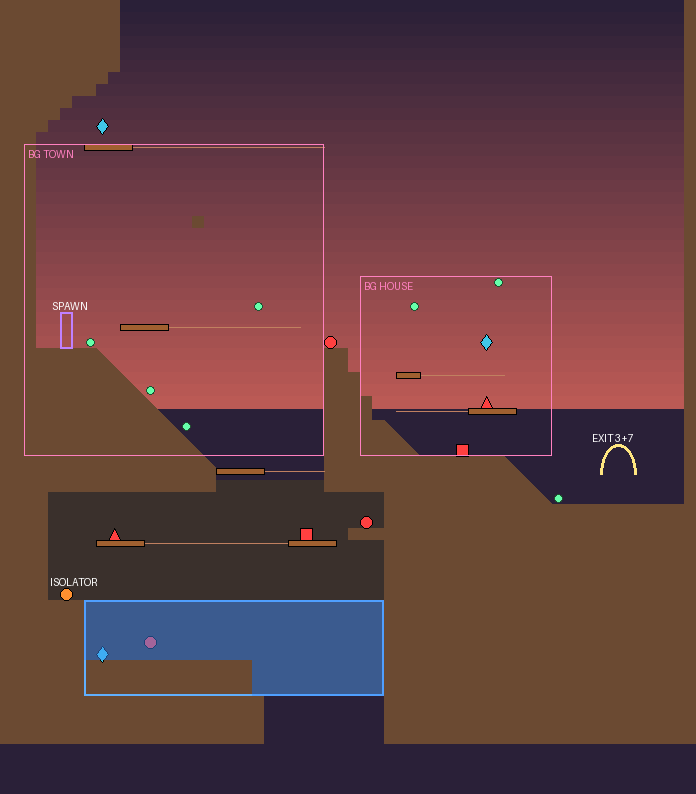
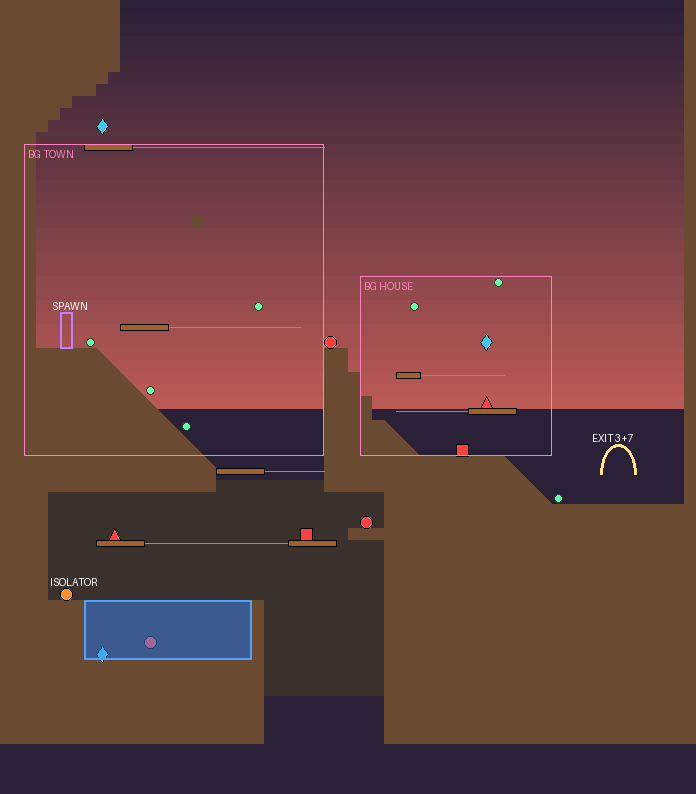
3 lives + 3 continues with continue/game-over screens; 1.2 pit is a dry hole (shutdown, reboot at entrance); water spills off open edges; full-power XLR/MAG water effects far stronger
Claude-Session: https://claude.ai/code/session_01UAL11RvN6t46xC3Baf4v3M

Changed region(s): [[0.3319, 0.7557, 0.5733, 0.8766], [0.1207, 0.8161, 0.1509, 0.8766]]

diff --git a/js/beta_water.js b/js/beta_water.js
@@ -55,6 +55,9 @@
       let L=0,R=0;
       while(L<8&&shoreFloor(w.c0-L-1,w)!=null) L++;
       while(R<8&&shoreFloor(w.c1+R+1,w)!=null) R++;
+      // past the last shore column: an open drop (water pours off it) or a wall?
+      const dropAt=c=>!gridSolid(c,w.r0-1)&&!gridSolid(c,w.r0-2)&&shoreFloor(c,w)==null;
+      w.spillL=dropAt(w.c0-L-1); w.spillR=dropAt(w.c1+R+1);
       w.px0=w.x0; w.px1=w.x1; w.x0-=L*T; w.x1+=R*T; w.n=Math.ceil((w.x1-w.x0)/w.step);
       for(let i=0;i<w.n;i++){
         const x=Math.min(w.x1-1,w.x0+i*w.step+w.step/2), c=Math.floor(x/T);
@@ -261,7 +264,8 @@
     if(!p) return;
     const xlr=!!(p.xlrOn&&ITEM===2&&typeof connectorTipWorld==='function');
     const mag=!!(p.magOn&&ITEM===3&&B.magTip);
-    const ch=Math.min(1,(B.chX||0)/45);
+    // strength = the power he has (full bar = full effect) or the charge, whichever is more
+    const ch=Math.max(Math.min(1,(B.chX||0)/45),Math.min(1,(p.itemStamina||0)/100));
     // a charged XLR push released under / onto the water: one big surge
     if(B._xlrFr!==fr){                                         // once a frame, for every pool
       B._xlrRel=(B._xlrWas&&!xlr&&B._xlrCh>0.25&&B._xlrTipW)?{tip:B._xlrTip,w:B._xlrTipW,ch:B._xlrCh}:null;
@@ -271,21 +275,27 @@
     if(xlr){
       const t=connectorTipWorld(2), a=Math.atan2(p.aimDY,p.aimDX), ux=Math.cos(a), uy=Math.sin(a);
       if(!B._xlrTipW) B._xlrTip={x:t.x,y:t.y,ux,uy};
-      const pw=0.45+0.55*ch;
+      const pw=0.45+0.9*ch;
       if(waterAt(t.x,t.y)===w){
         B._xlrTipW=w;
         const i0=colOf(w,t.x), pulse=0.75+0.25*Math.sin(fr*0.35);   // a throb, so ripples run off it
         // horizontal: move water downstream along the jet
-        for(let k=0;k<12;k++){ const x=t.x+ux*k*16, i=colOf(w,x); if(x<w.x0||x>=w.x1) break; colFlux(w,ux>0?i:i-1,ux*2.8*pw*pulse*(1-k/14)); }
+        for(let k=0;k<14;k++){ const x=t.x+ux*k*16, i=colOf(w,x); if(x<w.x0||x>=w.x1) break; colFlux(w,ux>0?i:i-1,ux*3.4*pw*pulse*(1-k/16)); }
         // the blast blows a pocket of air out of the nozzle: it grows with the
         // charge to 3x3 blocks at full power, and the water it pushes out of
         // that space has to go somewhere — the whole pool rises and sloshes
         let b=B.xBub;
         if(!b||b.free||b.w!==w){ b=B.xBub={w,x:t.x,y:t.y,r:6,free:false,vx:0,vy:0}; }
-        const goal=8+40*ch; b.r+=(goal-b.r)*0.12; b.held=fr;
+        const goal=10+38*ch; b.r+=(goal-b.r)*0.22; b.held=fr;   // full power: a 3x3-block pocket almost at once
         b.x=t.x+ux*b.r*0.9; b.y=t.y+uy*b.r*0.9; b.ux=ux; b.uy=uy;
-        if(fr%14===0) ring(w,b.x,b.y,'air',0.5+ch);
-        if(fr%3===0) for(let k=0;k<2;k++) B.bubbles.push({x:t.x+ux*(18+Math.random()*30),y:t.y+uy*(18+Math.random()*30),r:2+Math.random()*3,vy:-0.3+uy*2,vx:ux*3,w});
+        if(fr%10===0){ ring(w,b.x,b.y,'air',0.7+1.6*ch); if(ch>0.8) B.shake=Math.max(B.shake||0,2.5); }
+        // a roaring churn: big bubbles boiling off the pocket, streaming up and along the jet
+        const nb=1+Math.round(ch*4);
+        for(let k=0;k<nb;k++){ const a2=Math.random()*Math.PI*2, rr=b.r*(0.9+Math.random()*0.3);
+          B.bubbles.push({x:b.x+Math.cos(a2)*rr,y:b.y+Math.sin(a2)*rr,r:2+Math.random()*(3+6*ch),vy:-0.6-Math.random()*1.5+uy*2,vx:ux*(2+3*ch)+Math.cos(a2)*1.2,w}); }
+        // and the surface above boils white
+        const si=colOf(w,b.x), sy0=w.s[si];
+        if(ch>0.5&&b.y-b.r-sy0<90&&fr%2===0) for(let k=0;k<2;k++) PFXS.push({x:b.x+(Math.random()-0.5)*b.r*2,y:sy0-2,vx:(Math.random()-0.5)*2.5,vy:-1.5-Math.random()*3*ch,life:16+Math.random()*10|0,maxLife:26,r:1.5+Math.random()*2.5,col:k?'#ffffff':'#bfe6ff'});
       }else if(uy>0.25){
         // above the water, blowing at it: where does the blast meet the surface?
         let hx=null, hy=null;
@@ -303,13 +313,15 @@
       const t=B.magTip();
       if(waterAt(t.x,t.y)===w){
         const pw=Math.max(0.2,Math.min(1,(p.itemStamina||0)/100)), i0=colOf(w,t.x);
-        const depth=Math.max(0,t.y-w.s[i0]), reach=Math.max(0.15,1-depth/260);
-        for(let k=-6;k<=6;k++){ const j=i0+k; if(j<0||j>=w.n) continue; w.pull[j]-=52*pw*reach*(0.8+0.2*Math.sin(fr*0.3))*(1-Math.abs(k)/7); }   // dimple over the tip
-        for(let k=1;k<=10;k++){ colFlux(w,i0-k,0.8*pw*(1-k/11)); colFlux(w,i0+k-1,-0.8*pw*(1-k/11)); }      // water runs in from both sides
-        if(fr%18===0) ring(w,t.x,t.y,'mag',0.4+0.6*pw);
-        if(fr%2===0){                                           // molecules spiralling into the poles
-          const ang=fr*0.21, r=26+Math.random()*30;
-          B.bubbles.push({x:t.x+Math.cos(ang)*r,y:t.y+Math.sin(ang)*r,r:1.5+Math.random()*2,vy:0,vx:0,w,to:{x:t.x,y:t.y},ang,rad:r});
+        const depth=Math.max(0,t.y-w.s[i0]), reach=Math.max(0.2,1-depth/320);
+        // a whirlpool: at full power the surface caves into a deep funnel over the tip
+        for(let k=-8;k<=8;k++){ const j=i0+k; if(j<0||j>=w.n) continue; w.pull[j]-=(40+80*pw)*reach*(0.8+0.2*Math.sin(fr*0.3))*(1-Math.abs(k)/9); }
+        for(let k=1;k<=12;k++){ colFlux(w,i0-k,(0.6+1.4*pw)*(1-k/13)); colFlux(w,i0+k-1,-(0.6+1.4*pw)*(1-k/13)); }      // water rushes in from both sides
+        if(fr%12===0){ ring(w,t.x,t.y,'mag',0.5+1.3*pw); if(pw>0.8) B.shake=Math.max(B.shake||0,1.5); }
+        const nb=1+Math.round(pw*3);                            // a vortex of bubbles spiralling into the poles
+        for(let k=0;k<nb;k++){
+          const ang=fr*0.21+k*2.1, r=30+Math.random()*(40+50*pw);
+          B.bubbles.push({x:t.x+Math.cos(ang)*r,y:t.y+Math.sin(ang)*r,r:1.5+Math.random()*(2+3*pw),vy:0,vx:0,w,to:{x:t.x,y:t.y},ang,rad:r});
         }
       }
     }
@@ -363,7 +375,8 @@
 
   // one charged push released into the water: a surge of water + a ring
   function surge(w,tip,ch){
-    const i=colOf(w,tip.x), P=3+7*ch;
+    const i=colOf(w,tip.x), P=4+12*ch;
+    B.shake=Math.max(B.shake||0,3+5*ch);
     for(let k=0;k<10;k++){ colFlux(w,(tip.ux>0?i+k:i-k-1),tip.ux*P*(1-k/11)); }
     for(let k=-5;k<=5;k++){ const j=i+k; if(j>=0&&j<w.n) w.pull[j]+=(-(tip.uy||0))*60*ch*(1-Math.abs(k)/6); }
     splash(w,tip.x+(tip.ux||0)*30,2+4*ch,tip.uy<0);
@@ -452,6 +465,13 @@
         // in smooth swells instead of a zig-zag (moves no water by itself)
         if(it===2){ const F=w.flux.slice(); for(let i=1;i<w.n-2;i++) w.flux[i]=F[i]*0.8+(F[i-1]+F[i+1])*0.1; }
       }
+      // water reaching an open edge pours off it (down the pit) — and is gone
+      for(const [i,dir] of [[0,-1],[w.n-1,1]]){
+        if(!(dir<0?w.spillL:w.spillR)||w.amt[i]<=0.3) continue;
+        const out=Math.min(w.amt[i],w.amt[i]*0.25+0.2); w.amt[i]-=out; w.flux[dir<0?0:w.n-2]*=0.5;
+        const ex=dir<0?w.x0:w.x1;
+        if(fr%2===0) for(let k=0;k<Math.min(4,1+out/3);k++) PFXS.push({x:ex+dir*(2+Math.random()*4),y:w.bottom[i]-w.amt[i]-Math.random()*6,vx:dir*(0.6+Math.random()*1.4),vy:Math.random()*1.5,life:30+Math.random()*20|0,maxLife:50,r:2+Math.random()*2,col:k%2?'#9ad8ff':'#d8f2ff'});
+      }
       let lv=0, nw=0;
       for(let i=0;i<w.n;i++){ const wet=w.amt[i]>0.5; w.s[i]=w.bottom[i]-w.amt[i]-w.occ[i]+(wet?Math.sin(fr*0.04+i*0.45)*0.35:0); w.pull[i]=0; if(wet){ lv+=w.s[i]; nw++; } }   // + a living, slight lap
       w.level=nw?lv/nw:w.base;
@@ -523,7 +543,7 @@
       b.y+=b.vy; b.x+=(b.vx||0)+Math.sin(fr*0.1+i)*0.3; if(b.vx) b.vx*=0.95;
       if(!b.w||b.y<surfaceAt(b.w,b.x)) B.bubbles.splice(i,1);
     }
-    if(B.bubbles.length>160) B.bubbles.splice(0,B.bubbles.length-160);
+    if(B.bubbles.length>320) B.bubbles.splice(0,B.bubbles.length-320);
   }
   B.waterTick=waterTick;
 

diff --git a/js/beta_level.js b/js/beta_level.js
@@ -968,18 +968,16 @@
       if(typeof uiShowToast==='function') uiShowToast(B.tier>0&&B.echoNeed>0?'THE ECHO IS ANSWERED - THE ARCH IS OPEN':'THE ARCH IS OPEN'); try{ sfx('gate'); }catch(e){}
     }
     if(B.revisitNote>0) B.revisitNote--;
-    // The pit: falling off the bottom of the map costs a chunk of energy and
-    // puts MIND back on the last solid ground he stood on.
+    // The pit: a hole. Falling down it shuts MIND down (a life) and he reboots
+    // at the stage entrance (Paulo, Oct 20).
     if(p&&B.level){
       const bottom=(B.level.rows||B.level.h||62)*T;
       if((typeof _playerOnGround==='function'?_playerOnGround(p):p.og)&&!(B.inWater&&B.inWater(p.x+SW/2,p.y+FEET_OFF-8))&&!B.ridePlat&&fr%15===0) B.safe={x:p.x, y:p.y};
-      if(p.y>bottom+40&&_shutdownTimer<=0){
-        const sf=B.safe||{x:_spawnX, y:_spawnY};
-        p.x=sf.x; p.y=sf.y; p.vx=0; p.vy=0; p.og=true;
-        if(typeof _snapCameraToPlayer==='function') _snapCameraToPlayer(p);
-        B.shake=Math.max(B.shake||0,6); B.stats.hits++;
-        applyPlayerHit(0,-2,30);
-        if(typeof uiShowToast==='function') uiShowToast('THE PIT! -30');
+      if(p.y+FEET_OFF>=bottom-8&&_shutdownTimer<=0&&!B.contScreen&&!B.overT){   // reached the bottom of the map: down the hole
+        B.shake=Math.max(B.shake||0,8); B.stats.hits++;
+        p.hp=1; applyPlayerHit(0,0,9999);
+        p.vy=0;
+        if(typeof uiShowToast==='function') uiShowToast('FELL INTO THE PIT');
       }
     }
     if(!B.open&&B.gate&&p){
@@ -1214,6 +1212,14 @@
     const n=counts();
     uiPanel(8, H-58, 560, 50, {r:14, alpha:0.78, flat:true, accent:'rgba(200,170,255,0.55)'});
     drawText(B.stageName, 22, H-52, '#c8b8ff', 1);
+    // lives (little MIND heads) and continues
+    { const lx=W-210, ly=H-44, lost=B._lifeLostT>0&&(B._lifeLostT>>3)%2;
+      uiPanel(lx-14, ly-14, 210, 36, {r:12, alpha:0.78, flat:true, accent:'rgba(200,170,255,0.55)'});
+      for(let i=0;i<3;i++){ const on=i<B.lives||(lost&&i===B.lives); const x=lx+i*30;
+        ctx.fillStyle=on?'#1c1430':'rgba(255,255,255,0.10)'; ctx.fillRect(x,ly-6,22,18);
+        ctx.fillStyle=on?'#e8e0ff':'rgba(255,255,255,0.12)'; ctx.beginPath(); ctx.arc(x+11,ly+3,6,0,Math.PI*2); ctx.fill();
+        if(on){ ctx.fillStyle='#2a2040'; ctx.beginPath(); ctx.arc(x+12,ly+3,3,0,Math.PI*2); ctx.fill(); ctx.fillStyle='#000'; ctx.fillRect(x+1,ly-9,20,3); ctx.fillRect(x+5,ly-14,12,6); } }
+      drawText('CONT '+B.continues, lx+98, ly-2, '#ffd860', 1); }
     drawTextR(fmtTime(B.stats.frames), 190, H-52, '#ffffff', 1);
     if(ITEM===3&&p){
       const pw=Math.max(0,Math.min(100,p.itemStamina||0)), held=B.mag.held.length, cap=magCap(pw);
@@ -1440,8 +1446,59 @@
     else if(window.MV_STORY_STAGES){ saveStage(); B.ending={t:0}; if(window.MV_BETA_AUDIO) MV_BETA_AUDIO.play('results',{restart:true,volume:0.7}); }
     else{ B.on=false; startBetaLab(B.stageId, B.carryMask, {fresh:true}).catch(err=>console.error('stage load failed',err)); }
   }
+  // ── Lives + continues (Paulo, Oct 20): the game starts with 3 lives and 3
+  //   continues. Every shutdown costs a life; MIND reboots at the stage
+  //   entrance. Out of lives: CONTINUE? (3 more lives, back at the entrance).
+  //   Out of continues: GAME OVER, back to the title.
+  if(B.lives==null) B.lives=3; if(B.continues==null) B.continues=3;
+  { const _o=window._campaignUsesLives; window._campaignUsesLives=function(){ return B.on?false:(_o?_o.apply(this,arguments):false); }; }   // the story stages count lives here, not with the old 5-shutdown rule
+  B.newRun=function(){ B.lives=3; B.continues=3; B.contScreen=null; B.overT=0; };
+  function livesTick(){
+    const shut=_shutdownTimer>0;
+    if(shut&&!B._shutWas){ B.lives=Math.max(0,B.lives-1); B._lifeLostT=90; }
+    B._shutWas=shut;
+    if(B._lifeLostT>0) B._lifeLostT--;
+    if(!shut&&B.lives<=0&&!B.contScreen&&!B.overT){
+      if(B.continues>0){ B.contScreen={t:0,sel:0}; try{ if(window.MV_BETA_AUDIO) MV_BETA_AUDIO.stopAll(); }catch(e){} }
+      else B.overT=1;
+    }
+  }
+  function contInput(){
+    const C=B.contScreen; C.t++;
+    const up=Kj['ArrowUp']||Kj['KeyW']||Kj['ArrowLeft']||Kj['KeyA'], dn=Kj['ArrowDown']||Kj['KeyS']||Kj['ArrowRight']||Kj['KeyD'];
+    if(up||dn){ C.sel=1-C.sel; try{ sfx('menu'); }catch(e){} }
+    if(C.t>30&&(Kj['Space']||Kj['Enter']||Kj['Escape'])){
+      try{ sfx('confirm'); }catch(e){}
+      if(C.sel===0&&!Kj['Escape']){
+        B.continues--; B.lives=3; B.contScreen=null;
+        if(typeof _respawnPlayer==='function') _respawnPlayer();
+        if(window.MV_BETA_AUDIO&&B.music) MV_BETA_AUDIO.play(B.music,{restart:true});
+      }else{ B.contScreen=null; B.overT=1; }
+    }
+    if(typeof clkj==='function') clkj();
+  }
+  function drawLivesScreens(){
+    if(B.contScreen){
+      const C=B.contScreen, a=Math.min(1,C.t/20);
+      ctx.fillStyle='rgba(4,2,10,'+(0.75*a)+')'; ctx.fillRect(0,0,W,H);
+      const pw=440, ph=230, px=W/2-pw/2, py=H/2-ph/2;
+      uiPanel(px,py,pw,ph,{r:20});
+      uiLogo('CONTINUE?',W/2,py+18,44,{sweep:150});
+      drawTextC(B.continues+(B.continues===1?' CONTINUE LEFT':' CONTINUES LEFT'),W/2,py+78,'#c8b8ff',2);
+      ['YES','NO'].forEach((it,i)=>{ const y=py+118+i*44, sel=i===C.sel;
+        if(sel){ uiPanel(px+60,y-10,pw-120,38,{sel:true,r:12,flat:true}); uiCursor(px+82,y+9,9); }
+        drawTextC(it,W/2,y,sel?'#ffe39a':'#c8b8ff',3); });
+    }
+    if(B.overT>0){
+      const a=Math.min(1,B.overT/30);
+      ctx.fillStyle='rgba(0,0,0,'+(0.85*a)+')'; ctx.fillRect(0,0,W,H);
+      ctx.globalAlpha=a; uiLogo('GAME OVER',W/2,H/2-50,64,{sweep:200}); drawTextC('NO CONTINUES LEFT',W/2,H/2+30,'#c8b8ff',2); ctx.globalAlpha=1;
+    }
+  }
   window.update=function(){
     if(B.trans){ transTick(); return; }
+    if(B.on&&B.contScreen){ contInput(); return; }
+    if(B.on&&B.overT>0){ B.overT++; if(B.overT>200||(B.overT>60&&padOk())){ B.overT=0; B.newRun(); quitToTitle(); } return; }
     if(B.ending){ B.ending.t++; if((padOk()&&B.ending.t>90)||B._endReq){ B._endReq=false; quitToTitle(); } return; }
     if(B.on&&B.popup){ B.popup.t++; if((padOk()&&B.popup.t>40)||B._closeReq){ B._closeReq=false; closePopup(); } return; }
     if(B.on&&B.results){
@@ -1450,7 +1507,9 @@
       if(padOk()&&B.results.t>B.results.sc.rows.length*14+60) resultsNext();
       return;
     }
-    return _origUpdate.apply(this, arguments);
+    const r=_origUpdate.apply(this, arguments);
+    if(B.on&&_gameState==='game') livesTick();
+    return r;
   };
   const _origDraw=window.draw;
   window.draw=function(){
@@ -1458,6 +1517,7 @@
     if(sh){ ctx.save(); ctx.translate((Math.random()-0.5)*sh,(Math.random()-0.5)*sh); B.shake*=0.86; }
     try{ _origDraw.apply(this, arguments); } finally{ if(sh) ctx.restore(); }
     if(!B.on||_gameState!=='game') return;
+    if(B.contScreen||B.overT>0){ drawLivesScreens(); return; }
     for(let i=B.blasts.length-1;i>=0;i--){                 // blast flashes + rings
       const b=B.blasts[i]; b.t++;
       const k=b.t/26, r=sw(20+70*k*Math.min(1.6,b.amp));

diff --git a/play-1-2.html b/play-1-2.html
@@ -22,7 +22,7 @@ canvas{image-rendering:pixelated;image-rendering:crisp-edges;max-width:100%;heig
   cursor:crosshair;touch-action:none;background:var(--bg)}
 canvas:focus-visible{outline:2px solid var(--gold);outline-offset:2px}
 </style>
-<script>window.MV_BUILD='191'; window.MV_BETA_LAB=1; window.MV_BETA_START='1.2';</script>
+<script>window.MV_BUILD='192'; window.MV_BETA_LAB=1; window.MV_BETA_START='1.2';</script>
 <h1>AWDJOO TOWN 1.2 · TRIAL RUN</h1>
 <div id="helpLine">Water test: starts at 1.2 with all four jacks. <b>Go to the water</b> drops MIND on the ledge by the pool with the Isolator on (it lasts 30 s; the crate regrows 30 s after you take it). Under water, hold the XLR to blow an air pocket (3×3 blocks at full charge) and watch the pool rise and spill over the ledge; let go and it floats up and bursts. Hold the MAG under water to pull the surface down over its tip. Pick the look under the screen (A · SNES / B · Mega Drive / C · Posh). Click the game once to start the sound.
   <br><button id="goW" type="button">Go to the water</button> <button id="go12" type="button">Restart 1.2</button> <button id="go11" type="button">Play 1.1 instead</button></div>
@@ -44,7 +44,7 @@ canvas:focus-visible{outline:2px solid var(--gold);outline-offset:2px}
 <script src="js/physics.js?v=191"></script>
 <script src="js/player.js?v=189"></script>
 <script src="js/weapons.js?v=190"></script>
-<script src="js/ui.js?v=190"></script>
+<script src="js/ui.js?v=192"></script>
 <script src="js/render.js?v=191"></script>
 <script src="js/editor.js"></script>
 <script src="js/map_edit.js"></script>
@@ -59,9 +59,9 @@ canvas:focus-visible{outline:2px solid var(--gold);outline-offset:2px}
 <script src="js/ldtk_loader.js"></script>
 <script src="js/beta_audio.js?v=189"></script>
 <script src="js/beta_decor.js?v=179"></script>
-<script src="js/beta_level.js?v=191"></script>
+<script src="js/beta_level.js?v=192"></script>
 <script src="js/beta_feel.js?v=191"></script>
-<script src="js/beta_water.js?v=191"></script>
+<script src="js/beta_water.js?v=192"></script>
 <script src="js/beta_enemies.js?v=191"></script>
 <script src="js/console16.js?v=177"></script>
 <script>

diff --git a/index.html b/index.html
@@ -23,7 +23,7 @@
 <meta http-equiv="Pragma" content="no-cache">
 <meta http-equiv="Expires" content="0">
 <title>Mind &amp; Venture</title>
-<script>window.MV_BUILD='191';</script>
+<script>window.MV_BUILD='192';</script>
 <script src="js/phone.js?v=135"></script>
 <script>
 if(location.protocol==='file:'){
@@ -288,7 +288,7 @@ window.onerror=function(msg,src,line,col,err){
   <script src="js/player.js?v=189"></script>
 <script src="js/beta_touch.js?v=181"></script>
   <script src="js/weapons.js?v=190"></script>
-<script src="js/ui.js?v=190"></script>
+<script src="js/ui.js?v=192"></script>
   <script src="js/render.js?v=191"></script>
 <script src="js/editor.js?v=125"></script>
 <script src="js/map_edit.js?v=138"></script>
@@ -305,9 +305,9 @@ window.onerror=function(msg,src,line,col,err){
 <script>window.MV_STORY_STAGES=1;</script>
 <script src="js/beta_audio.js?v=189"></script>
 <script src="js/beta_decor.js?v=179"></script>
-<script src="js/beta_level.js?v=191"></script>
+<script src="js/beta_level.js?v=192"></script>
 <script src="js/beta_feel.js?v=191"></script>
-<script src="js/beta_water.js?v=191"></script>
+<script src="js/beta_water.js?v=192"></script>
 <script src="js/beta_enemies.js?v=191"></script>
 <script src="js/console16.js?v=177"></script>
 <script>

diff --git a/beta-lab.html b/beta-lab.html
@@ -31,7 +31,7 @@ canvas{image-rendering:pixelated;image-rendering:crisp-edges;
 <script src="js/physics.js?v=191"></script>
 <script src="js/player.js?v=189"></script>
 <script src="js/weapons.js?v=190"></script>
-<script src="js/ui.js?v=190"></script>
+<script src="js/ui.js?v=192"></script>
 <script src="js/render.js?v=191"></script>
 <script src="js/editor.js?v=125"></script>
 <script src="js/map_edit.js?v=138"></script>
@@ -46,9 +46,9 @@ canvas{image-rendering:pixelated;image-rendering:crisp-edges;
 <script src="js/ldtk_loader.js?v=159"></script>
 <script src="js/beta_audio.js?v=189"></script>
 <script src="js/beta_decor.js?v=179"></script>
-<script src="js/beta_level.js?v=191"></script>
+<script src="js/beta_level.js?v=192"></script>
 <script src="js/beta_feel.js?v=191"></script>
-<script src="js/beta_water.js?v=191"></script>
+<script src="js/beta_water.js?v=192"></script>
 <script src="js/beta_enemies.js?v=191"></script>
 <script src="js/console16.js?v=177"></script>
 </body>

diff --git a/play-beta.html b/play-beta.html
@@ -44,7 +44,7 @@ canvas:focus-visible{outline:2px solid var(--gold);outline-offset:2px}
 <script src="js/physics.js?v=191"></script>
 <script src="js/player.js?v=189"></script>
 <script src="js/weapons.js?v=190"></script>
-<script src="js/ui.js?v=190"></script>
+<script src="js/ui.js?v=192"></script>
 <script src="js/render.js?v=191"></script>
 <script src="js/editor.js"></script>
 <script src="js/map_edit.js"></script>
@@ -59,9 +59,9 @@ canvas:focus-visible{outline:2px solid var(--gold);outline-offset:2px}
 <script src="js/ldtk_loader.js"></script>
 <script src="js/beta_audio.js?v=189"></script>
 <script src="js/beta_decor.js"></script>
-<script src="js/beta_level.js?v=191"></script>
+<script src="js/beta_level.js?v=192"></script>
 <script src="js/beta_feel.js?v=191"></script>
-<script src="js/beta_water.js?v=191"></script>
+<script src="js/beta_water.js?v=192"></script>
 <script src="js/beta_enemies.js?v=191"></script>
 <script src="js/console16.js?v=1"></script>
 <script>

diff --git a/js/ui.js b/js/ui.js
@@ -301,7 +301,7 @@ function startGame(){
     if(window.MV_STORY_STAGES&&typeof startBetaLab==='function'&&!/[?&]selftest=1/.test(location.search)){
       if(_playerCount===2){ uiShowToast('2 PLAYERS - COMING SOON TO THE NEW AWDJOO'); _selectStep=0; return; }
       _gameState='game'; _stopBGM('story'); if(typeof _stopAllBgm==='function') _stopAllBgm();
-      if(window.MV_BETA){ MV_BETA.saves={}; MV_BETA.isoOwned=false; MV_BETA.popupSeen={}; MV_BETA.progress=0; MV_BETA.results=null; MV_BETA.popup=null; MV_BETA.trans=null; }
+      if(window.MV_BETA){ MV_BETA.saves={}; MV_BETA.isoOwned=false; MV_BETA.popupSeen={}; if(MV_BETA.newRun) MV_BETA.newRun(); MV_BETA.progress=0; MV_BETA.results=null; MV_BETA.popup=null; MV_BETA.trans=null; }
       startBetaLab('1.1',0,{fresh:true}).catch(err=>console.error('stage load failed',err));
       return;
     }

diff --git a/scripts/build-awdjoo-1-2.py b/scripts/build-awdjoo-1-2.py
@@ -96,6 +96,8 @@ rect(4, 31, 41, 49, AIR)
 rect(7, 20, 50, 54, AIR)                                # shallow end, floor row 55
 rect(21, 31, 50, 57, AIR)                               # deep end, floor row 58
 rect(22, 31, 50, ROWS - 1, AIR)                         # ... except it has no floor: the PIT
+rect(21, 21, 50, ROWS - 1, SOLID)                       # the pool's rim: the water stays on its floor, the pit is a dry hole
+                                                        # (Paulo, Oct 20: fall in and MIND shuts down, reboots at the entrance)
 rect(29, 31, 44, 44, SOLID)                             # stub ledge on the right wall
 rect(18, 26, 40, 40, AIR)                               # the gap opens into the room
 paint(4, 31, 41, 57, SK_STONE_BG); paint(18, 26, 40, 40, SK_STONE_BG)
@@ -122,7 +124,7 @@ ent('MovingPlatform', 8, 45, 4, 1, a=8, b=14, speed=10)     # water room: the tw
 ent('MovingPlatform', 24, 45, 4, 1, a=18, b=24, speed=10)
 ent('MovingPlatform', 39, 34, 4, 1, a=33, b=39, speed=10)   # inside the arch
 ent('MovingPlatform', 33, 31, 2, 1, a=33, b=40, speed=12)   # the sliding block inside the arch
-ent('Water', 7, 50, 25, 8)                              # basin: cols 7-31, surface at row 50
+ent('Water', 7, 50, 14, 5)                              # the pool: cols 7-20 over its floor (row 55), surface at row 50
 # enemies: ai = circle (Enemy A, sine wave) | square | tri; range in tiles each way
 ent('Enemy', 27, 28, ai='circle', range=1)              # on the tall pillar
 ent('Enemy', 30, 43, ai='circle', range=1)              # stub ledge in the water room

diff --git a/AGENTS.md b/AGENTS.md
@@ -196,3 +196,6 @@ After completing substantive work in this repo, **commit and push to `main` with
 - **No standing on a block's side** (physics.js `_playerRidingBoxTop`): a block counts as floor only if the wheel centre is over it and nothing sits on top of it — a stack of blocks is a wall.
 - **Smooth water + ropes**: the water surface draws through a 2-pass [1 2 1] smoothing as quadratic curves (`smoothSurf`/`curveThrough`), soft foam, and a little flux viscosity; ropes (MIND's and enemies') draw as smooth curves with finer cord segments.
 - **MAG locks in 8 directions** (`rockAtTip` in beta_level): whenever the poles meet rock along the 8-way aim — wall, ceiling, floor, on the ground or in the air — MIND locks there until he lets go; cubes and platforms still get grabbed / ignored. Field lines face away from the contact surface.
+- **Lives + continues** (beta_level `livesTick` / `contInput` / `drawLivesScreens`): 3 lives and 3 continues per run (`B.newRun()` on a new game). Each shutdown costs a life and MIND reboots at the stage entrance; out of lives → CONTINUE? (YES: 3 lives, back at the entrance) / NO; out of continues → GAME OVER → title. HUD: three MIND heads + CONT n. The old 5-shutdown rule is off in story stages.
+- **1.2 pit is a dry hole**: the pool is cols 7–20 with a rim at col 21; reaching the map bottom = shutdown (a life) and reboot at the entrance. Water reaching an open edge (`spillL/spillR`) pours off it and is gone.
+- **Water items scale with power**: XLR/MAG strength = max(charge, power bar). Full power: 3×3 pocket almost at once, churning big bubbles, white boiling surface, bigger rings, a little shake; MAG digs a whirlpool funnel with a bubble vortex; release surges are bigger.
